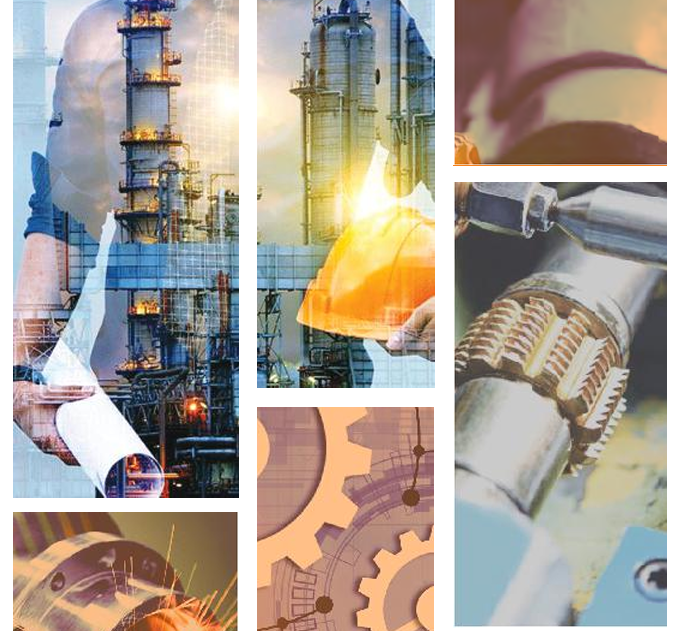
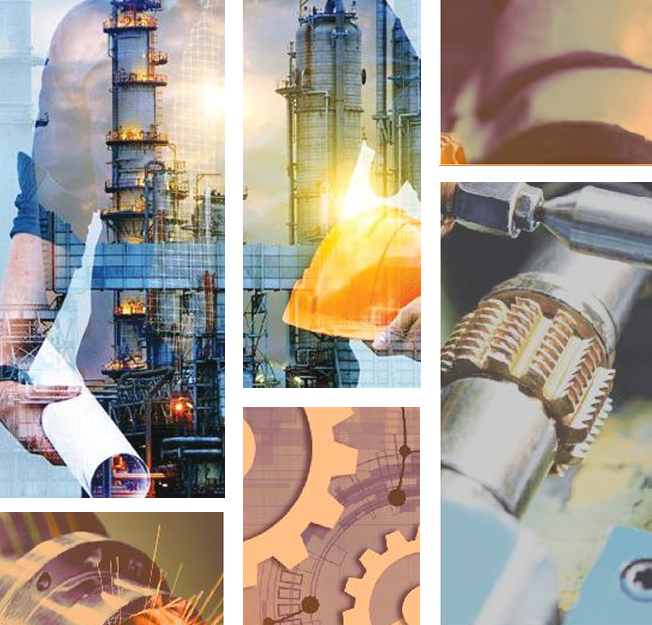
carousel modified, dropdown new design added

diff --git a/index.html b/index.html
@@ -52,11 +52,30 @@
       <nav id="navmenu" class="navmenu">
         <ul>
           <li><a href="index.html#hero" class="active">Home</a></li>
-          <li><a href="products.html">Products</a></li>
-          <!-- <li class="dropdown dropbtn"><a href="#"><span>Products</span> <i
-                class="bi bi-chevron-down toggle-dropdown"></i></a>
+          <li class="dropdown dropbtn">
+            <a href="#"><span>Products</span>
+              <i class="bi bi-chevron-down toggle-dropdown"></i></a>
+
             <div class="dropdown">
               <div class="dropdown-content">
+                <nav>
+                  <div class="nav nav-tabs" id="nav-tab" role="tablist">
+                    <button class="nav-link active" id="nav-home-tab" data-bs-toggle="tab" 
+                    data-bs-target="#nav-home" type="button" role="tab" aria-controls="nav-home" 
+                    aria-selected="true">
+                    <i class="bi bi-square-fill"></i>
+                    Primary Package</button>
+                    <button class="nav-link" id="nav-profile-tab" data-bs-toggle="tab"
+                     data-bs-target="#nav-profile" type="button" role="tab" aria-controls="nav-profile"
+                      aria-selected="false">Secondary Package</button>
+                    <button class="nav-link" id="nav-contact-tab" data-bs-toggle="tab"
+                     data-bs-target="#nav-contact" type="button" role="tab" aria-controls="nav-contact"
+                      aria-selected="false">Contact</button>
+                  </div>
+                </nav>
+                <div class="tab-content" id="nav-tabContent">
+                  <div class="tab-pane fade show active" id="nav-home" role="tabpanel" 
+                  aria-labelledby="nav-home-tab" tabindex="0">
                 <div class="a">
                   <a href="#">
                     <div class="dropdown-item-container">
@@ -83,7 +102,8 @@
                     </div>
                   </a>
                 </div>
-                <div class="b">
+
+                 <div class="b">
                   <a href="#">
                     <div>
                       <img class="dropdown-image" src="assets/img/Multi Weigher.PNG">
@@ -110,63 +130,15 @@
                     </div>
                   </a>
                 </div>
+                </div>
+                  <div class="tab-pane fade" id="nav-profile" role="tabpanel" 
+                  aria-labelledby="nav-profile-tab" tabindex="0">b</div>
+                  <div class="tab-pane fade" id="nav-contact" role="tabpanel" 
+                  aria-labelledby="nav-contact-tab" tabindex="0">c</div>
+                </div>
               </div>
             </div>
-            <ul class="test">
-              <div class="dropdown-items-container">
-
-                 <li><a href="#">
-                  <div class="dropdown-item-container">
-                    <img class="dropdown-image" src="assets/img/Semi Auto Liquid Filing.PNG">
-                    <p class="dropdown-item-text">Semi Auto Liquid Filing Machine pneumatic operated</p>
-                  </div>
-                </a></li>
-              <li><a href="#">
-                  <div>
-                    <img class="dropdown-image" src="assets/img/Semi Auto Paste Filling.PNG">
-                    <p class="dropdown-item-text">Semi Auto Paste Filling Machine Pneumatic Operated</p>
-                  </div>
-                </a></li>
-              <li><a href="#">
-                  <div>
-                    <img class="dropdown-image" src="assets/img/Fully Automatic Liquid.PNG">
-                    <p class="dropdown-item-text">Fully Automatic Liquid Filing Machine Line</p>
-                  </div>
-                </a></li> -->
-          <!-- <li><a href="#">
-                  <div>
-                    <img class="dropdown-image" src="assets/img/Fully Automatic Paste.PNG">
-                    <p class="dropdown-item-text">Fully Automatic Paste Filling Machine Line</p>
-                  </div>
-                </a></li> -->
-          <!-- <li><a href="#">
-                  <div>
-                    <img class="dropdown-image" src="assets/img/Multi Weigher.PNG">
-                    <p class="dropdown-item-text">Multi Weigher</p>
-                  </div>
-                </a></li> -->
-          <!-- <li><a href="#">
-                  <div>
-                    <img class="dropdown-image"
-                      src="https://5.imimg.com/data5/ANDROID/Default/2021/10/DO/BB/KT/7776070/product-jpeg-500x500.jpg">
-                    <p class="dropdown-item-text">Semi-Automatic Powder Filling Machine</p>
-                  </div>
-                </a></li> -->
-          <!-- <li><a href="#">
-                <div>
-                  <img class="dropdown-image" src="assets/img/Automatic Form Fill Seal Machine.PNG">
-                  <p class="dropdown-item-text">Automatic Form Fill Seal Machine</p>
-                </div>
-              </a></li> -->
-          <!-- <li><a href="#">
-                <div>
-                  <img class="dropdown-image" src="assets/img/Flow Wrap Machine.PNG">
-                  <p class="dropdown-item-text">Flow Wrap Machine</p>
-                </div>
-              </a></li> 
-              </div>
-            </ul>
-          </li> -->
+          </li>
           <li><a href="index.html#about">About</a></li>
           <li><a href="index.html#clients">Clients</a></li>
           <li><a href="index.html#services">Services</a></li>
@@ -203,7 +175,7 @@
           <!-- Slide 1 -->
           <div class="carousel-item active">
             <div class="container">
-              <div class="row align-items-center">
+              <div class="row">
                 <div class="col-md-6 text-section">
                   <h2 class="sub-text">Superior Quality</h2>
                   <h1 class="main-text">Primary Packaging Solutions</h1>
@@ -219,7 +191,7 @@
           <!-- Slide 2 -->
           <div class="carousel-item">
             <div class="container">
-              <div class="row align-items-center">
+              <div class="row">
                 <div class="col-md-6 text-section">
                   <h2 class="sub-text">Reliable</h2>
                   <h1 class="main-text">Secondary Packaging Solutions</h1>
@@ -235,15 +207,15 @@
           <!-- Slide 3 -->
           <div class="carousel-item">
             <div class="container">
-              <div class="row align-items-center">
+              <div class="row">
                 <div class="col-md-6 text-section">
                   <h2 class="sub-text">World Class</h2>
                   <h1 class="main-text">Industrial Automation Solutions</h1>
                   <h2 class="sub-text-2">for Future-Ready Operations.</h2>
                 </div>
                 <div class="col-md-6 image-section d-flex justify-content-center align-items-center flex-wrap">
-                  <img class="carousel-img" src="assets/img/carousel/carousel3-img1.png" alt="">
-                  <img class="carousel-img" src="assets/img/carousel/carousel3-img2.png" alt="">
+                  <img id="carousel3-img1" src="assets/img/carousel/carousel3-img1.png" alt="">
+                  <img id="carousel3-img2" src="assets/img/carousel/carousel3-img2.png" alt="">
                 </div>
               </div>
             </div>
@@ -252,7 +224,7 @@
           <!-- Slide 4 -->
           <div class="carousel-item">
             <div class="container">
-              <div class="row align-items-center">
+              <div class="row">
                 <div class="col-md-6 text-section">
                   <h2 class="sub-text">Advanced</h2>
                   <h1 class="main-text">Conveyor Packing Solutions</h1>

diff --git a/assets/css/main.css b/assets/css/main.css
@@ -573,6 +573,10 @@ section,
   min-height: 310px;
 }
 
+.text-section{
+  margin-top: 30px;
+}
+
 .text-section .main-text {
   font-size: 2rem;
   font-weight: 700;
@@ -612,7 +616,7 @@ section,
 .image-section #carousel1-img{
   width: 100%;
   height: 100%;
-  object-fit: cover;
+  object-fit: contain;
   padding: 5px;
   margin-top: -30px;
 }
@@ -624,6 +628,29 @@ section,
   padding: 5px;
   margin-top: -30px;
 }
+
+.image-section #carousel3-img1{
+  width: 220px;
+  height: 220px;
+  object-fit: contain;
+  border-radius: 50%;
+  border: 3px solid var(--contrast-color);
+  padding: 1px;
+  background-color: white;
+}
+
+.image-section #carousel3-img2{
+  width: 220px;
+  height: 220px;
+  object-fit: contain;
+  border-radius: 50%;
+  border: 3px solid var(--contrast-color);
+  padding: 1px;
+  background-color: white;
+  margin-top: 80px;
+}
+
+
 
 .carousel-section .carousel-indicators {
   bottom: -40px;
@@ -1782,6 +1809,9 @@ section,
   margin-bottom: 20px;
 }
 
+/* ----------------------------------------------
+----------Product dropdown section -------------- */
+
 .dropdown-image {
   width: 80px;
   height: 80px;
@@ -1816,13 +1846,20 @@ section,
   left: 50%;
   transform: translateX(-50%);
   background-color: white;
-  min-width: 200px;
+  min-width: 500px;
   box-shadow: 0px 4px 8px rgba(0, 0, 0, 0.2);
   border-radius: 5px;
   z-index: 1;
   padding: 10px;
   text-align: center;
   transition: opacity 0.3s ease-in-out;
+}
+
+.dropdown-content .bi-square-fill{
+  color: var(--accent-color);
+  font-size: 12px;
+  text-align: center;
+  margin-right: 5px;
 }
 
 .dropdown:hover .dropdown-content {
@@ -1871,6 +1908,10 @@ section,
   .carousel-item .row {
     flex-direction: column;
     text-align: center;
+  }
+
+  .carousel-section .carousel {
+    height: auto;
   }
 
   .text-section,
